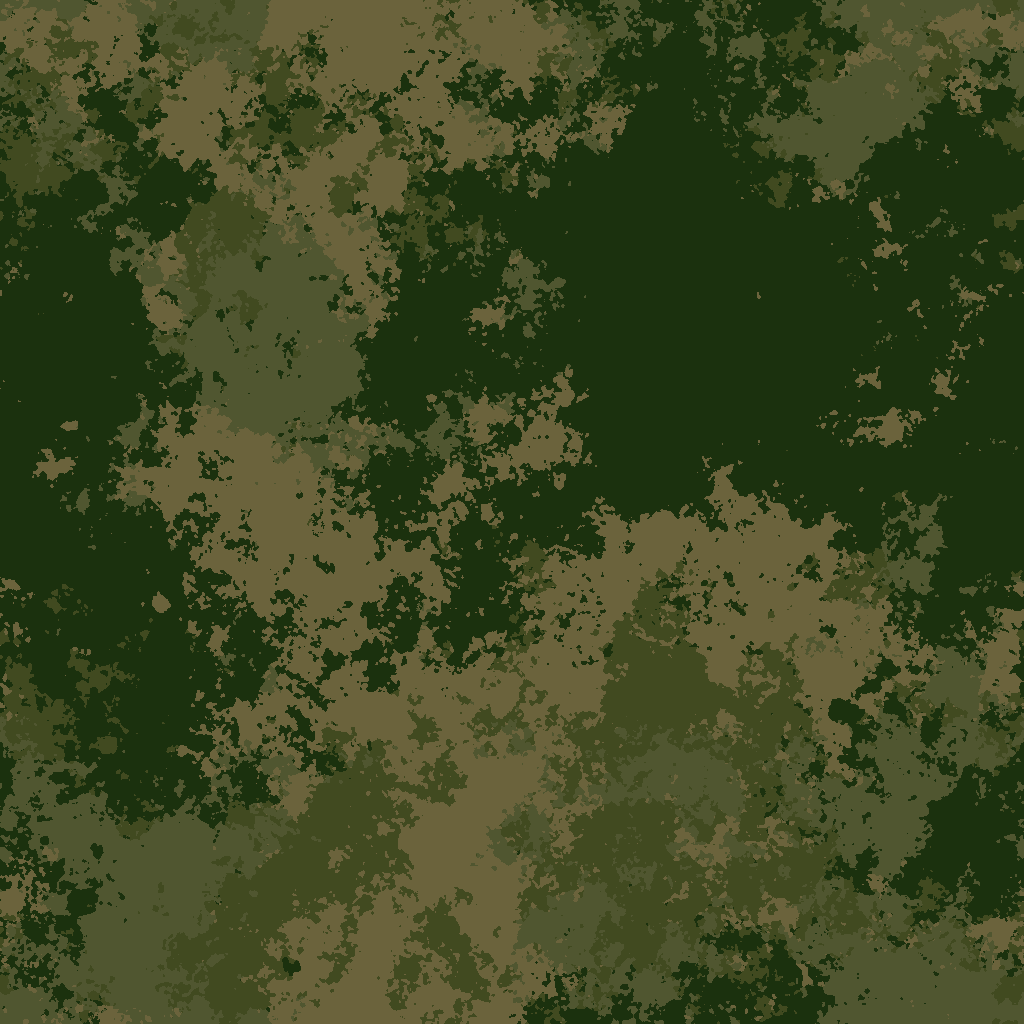
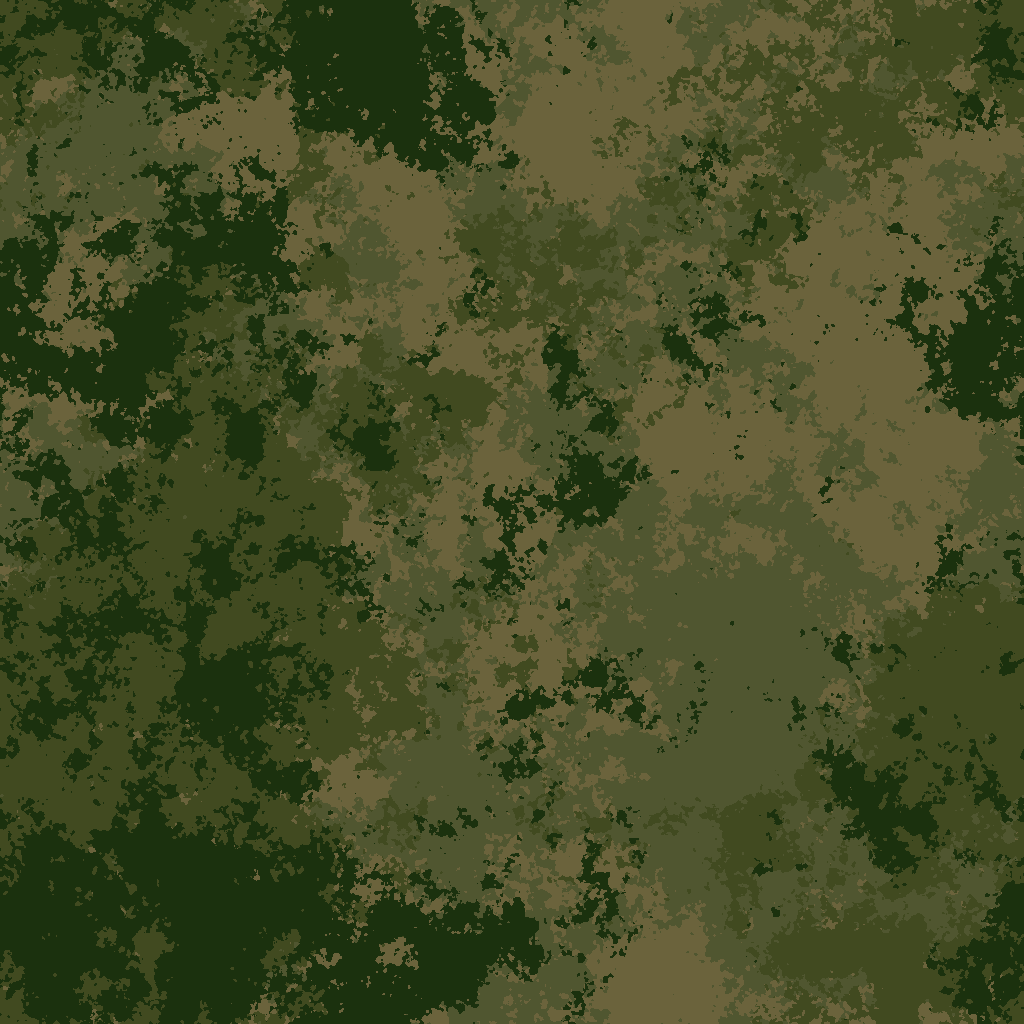
Corrected color distribution and add Pixelize

diff --git a/camogen.py b/camogen.py
@@ -37,10 +37,24 @@ def nat_filt_im(size=(), c=2.0):
 
     return filtered
 
+def pixelize_image(image, pixel_size=10):
+    # Load the image
+    image = image
+    # Resize the image to a smaller size
+    small_image = image.resize(
+        (image.width // pixel_size, image.height // pixel_size), Image.NEAREST)
+    # Resize back to the original size
+    pixelated_image = small_image.resize(image.size, Image.NEAREST)
+    return pixelated_image
 
-def generate_pattern(colors_hex, output_filename, size=(), c=2.0, ratios=None):
+def generate_pattern(colors_hex, output_filename, size=(), c=2.0, ratios=None, pixelize=False):
     fp = np.ones((3, 3)).astype(np.uint8)
-
+    
+    # Filter out colors with zero ratios 
+    if ratios is not None:
+        non_zero_indices = [i for i, r in enumerate(ratios) if r > 0]
+        colors_hex = [colors_hex[i] for i in non_zero_indices]
+        ratios = [ratios[i] for i in non_zero_indices]
     
     rgb_colors = [hex2rgb(c.strip()) for c in colors_hex]
     palette = []
@@ -48,34 +62,56 @@ def generate_pattern(colors_hex, output_filename, size=(), c=2.0, ratios=None):
         palette += cc
 
     n_colors = len(colors_hex)
-
     
     if ratios is None:
-        ratios = [1 / n_colors] * n_colors  # Equal ratio by default
+        ratios = [1 / n_colors] * n_colors
     else:
-        assert len(ratios) == n_colors, "Make sure the number of ratios matches the number of colors"
-        assert np.isclose(sum(ratios), 100), "Ratios must sum to 100%"
-        ratios = np.array(ratios) / sum(ratios)  # Normalize ratios to sum to 1
+        assert len(ratios) == n_colors
+        assert np.isclose(sum(ratios), 100)
+        ratios = np.array(ratios) / sum(ratios)
 
-    # Generate initial random noise layers
-    layers = np.array([nat_filt_im(size=size, c=c) * r for r in ratios])
+    # Generate separate noise layers only for non-zero colors
+    noise_layers = [nat_filt_im(size=size, c=c) for _ in range(n_colors)]
+    
+    total_pixels = size[0] * size[1]
+    pixel_counts = np.round(ratios * total_pixels).astype(int)
+    pixel_counts[-1] = total_pixels - np.sum(pixel_counts[:-1])
+    
+    # Create color map
+    color_map = np.zeros(total_pixels, dtype=np.uint8)
+    
+    # Process each layer
+    remaining_indices = set(range(total_pixels))
+    for i, layer in enumerate(noise_layers):
+        if i == n_colors - 1:
+            indices = list(remaining_indices)
+        else:
+            flat_layer = layer.flatten()
+            sorted_indices = np.argsort(flat_layer)
+            valid_indices = [idx for idx in sorted_indices if idx in remaining_indices]
+            indices = valid_indices[-pixel_counts[i]:]
+            
+        remaining_indices -= set(indices)
+        color_map[indices] = i
 
-    # Combine layers by selecting the highest value at each pixel
-    combined_map = np.argmax(layers, axis=0)
-
-    # Apply modal filter for smoothing
-    final_map = modal(combined_map.astype(np.uint8), fp)
+    color_map = color_map.reshape(size)
+    final_map = modal(color_map, fp)
 
     img = Image.new("P", size, (0, 0, 0))
     img.putdata(final_map.flatten())
     img.putpalette(palette)
-    img.save(output_filename)
+    if pixelize is True:
+        img = pixelize_image(img, pixel_size=10)
+        img.save(output_filename)
+    else:
+        img.save(output_filename)
     return img
 
 # Example usage
 # get color from image
+pixelize = False # Set to True to pixelize the output image 
 color_palette = cp.extract_palette("demo_input/teste3.png", num_colors=4)
 # custom color palette
 #color_palette = ['0d011c', '1D1107', '011c07', '012e04']
 ratios = [25, 25, 25, 25]  # Example ratios for each color
-generate_pattern(color_palette, "gencamo.png", size=(1024, 1024), c=1.2, ratios=ratios)
+generate_pattern(color_palette, "gencamo.png", size=(1024, 1024), c=1.2, ratios=ratios, pixelize=pixelize)
